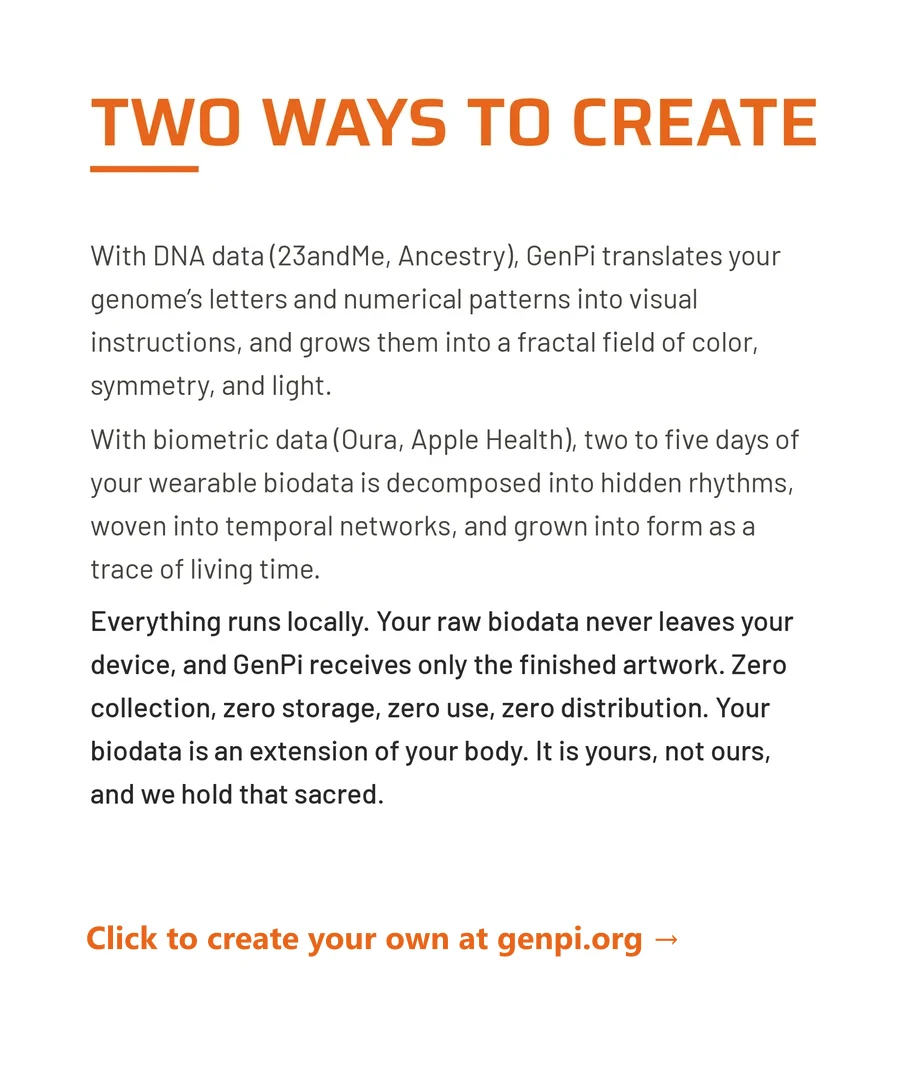
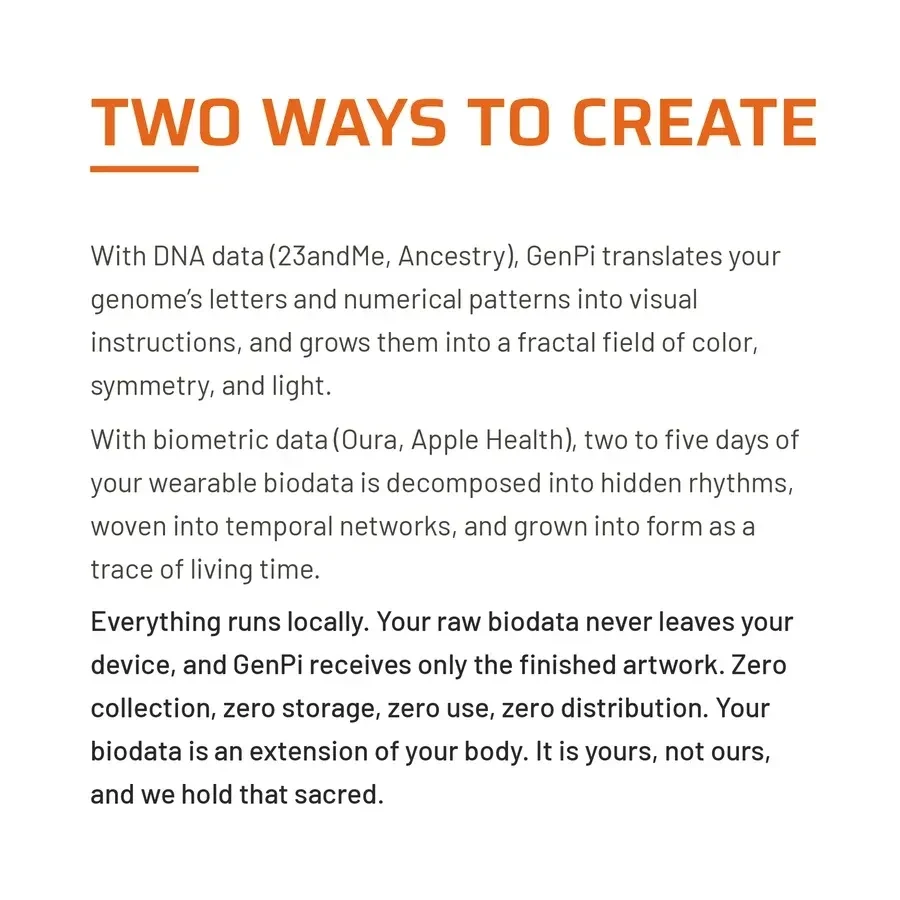
OURS Ledgerworks: copy rewrite full-width, thin CTAs, wall stroke + polish
- Why-on-chain copy replaced with Olli's edit (four paragraphs), moved
  between the wall and the photo gallery, full section width
- All buy affordances drop btn-solid for the thin mono caps orange
  style (BuyModal trigger + proceed, Gazelli CTA, ETH notify submit,
  thank-you close) - exported as THIN_CTA from BuyModal
- Ledgerworks wall gets the thin orange inset stroke and the site's
  rounded-3xl corners
- Nahuel's genpi placard asset cropped to remove its baked-in bold
  "Click to create your own" line - the thin appended CTA replaces it
  (placard cache-buster bumped to v9)
- Forest of Expired Links no longer claims to include the exhibition
  print (wall modal note + collect page note)

Changed region(s): [[0.0933, 0.0622, 0.9022, 0.7467], [0.0933, 0.7778, 0.8711, 0.9022]]

diff --git a/components/ours/LedgerworksSection.tsx b/components/ours/LedgerworksSection.tsx
@@ -16,7 +16,7 @@ import { EthPieceCheckout } from '@/components/storefront/EthPieceCheckout';
 const IMG_W = 2400;
 const IMG_H = 1528;
 const SCREEN = { x: 1069, y: 394, w: 246, h: 438 };
-const V = '?v=8';
+const V = '?v=9';
 const ZOOM = 2.34;                 // 10% less than before
 const LOUPE_W = '35%';             // 30% larger than before
 // every raised placard shares the manifesto's width (which puts the
@@ -74,7 +74,7 @@ const COLLECT_SPOTS: CollectSpot[] = [
       kind: 'external',
       href: 'https://bit.ly/forest-of-expired-links',
       cta: 'Purchase through Gazelli Art House',
-      note: 'ERC-721 video, on-chain. Includes the photographic print from the exhibition. Gallery-represented — the sale completes on Gazelli Art House’s own listing.',
+      note: 'ERC-721 video, on-chain. Gallery-represented — the sale completes on Gazelli Art House’s own listing.',
     },
   },
   {
@@ -219,7 +219,7 @@ export function LedgerworksSection() {
 
   return (
     <div className="mt-8">
-      <div className="relative mx-auto w-full max-w-[1400px] overflow-hidden rounded-[2.5rem]">
+      <div className="relative mx-auto w-full max-w-[1400px] overflow-hidden rounded-3xl">
         <picture>
           <source srcSet={`/images/ours/ledgerworks-wall.webp${V}`} type="image/webp" />
           {/* eslint-disable-next-line @next/next/no-img-element */}
@@ -229,6 +229,14 @@ export function LedgerworksSection() {
             className="block h-auto w-full"
           />
         </picture>
+
+        {/* thin OURS-orange stroke around the wall, matching the header
+            panel's treatment — painted above the image, under the HUDs */}
+        <span
+          aria-hidden
+          className="pointer-events-none absolute inset-0 rounded-3xl"
+          style={{ boxShadow: `inset 0 0 0 1px ${OURS.orange}` }}
+        />
 
         <video
           src="/images/ours/pope.mp4"
@@ -503,6 +511,46 @@ export function LedgerworksSection() {
         })}
       </div>
 
+      {/* why FFA hangs on-chain work at all — the standing argument,
+          full width between the wall and the photo gallery */}
+      <div className="mt-12">
+        <p className="font-mono text-[11px] uppercase tracking-[0.14em]" style={{ color: OURS.orange }}>
+          Why on-chain
+        </p>
+        <hr className="mt-1.5 h-[2px] w-12 border-0" style={{ background: OURS.orange }} />
+        <div className="mt-5 w-full space-y-5 text-body-lg leading-relaxed text-ink/85">
+          <p>
+            The Foundation features on-chain work in all of its exhibitions as a rule,
+            not a novelty. We believe that the utility offered by web3 may be the best
+            provenance technology the art world has ever had. It creates a public,
+            permanent, tamper-proof record of a work and every hand it has passed
+            through. This produces not only proof of ownership for now, but preserves
+            the legacy of a piece forever.
+          </p>
+          <p>
+            The benefit to the artist is also indisputable. Resale royalties can be
+            written into the work itself, so when a piece appreciates and changes
+            hands, its artist shares in the upside automatically. This is a right
+            physical artists have fought for for a century. Authentication no longer
+            hinges on an expert&rsquo;s letter or a gallery&rsquo;s memory. Editions
+            are honest. The ledger enforces scarcity in a way much more verifiable
+            than a signature. And an artist&rsquo;s market stays legible to them:
+            they know where their work travels and what it trades for.
+          </p>
+          <p>
+            The blockchain widens what art can be and who can hold it. A collector
+            anywhere on earth can support an artist directly, with no gatekeeper
+            between them. The relationship outlives any platform, because the
+            on-chain record does.
+          </p>
+          <p>
+            Ledgerworks shares the same space as the oil paint and the ceramics as a
+            display of works just as impressive, but also as an educational tool and
+            a bridge to the future that more and more of the art world is exploring.
+          </p>
+        </div>
+      </div>
+
       {/* ------- the wall in the room: photos & film ------- */}
       <div className="mt-10">
         <p className="font-mono text-[11px] uppercase tracking-[0.14em]" style={{ color: OURS.orange }}>
@@ -547,43 +595,6 @@ export function LedgerworksSection() {
                 />
               ))}
             </div>
-          </div>
-        </div>
-
-        {/* why FFA hangs on-chain work at all — the standing argument */}
-        <div className="mt-12">
-          <p className="font-mono text-[11px] uppercase tracking-[0.14em]" style={{ color: OURS.orange }}>
-            Why on-chain
-          </p>
-          <hr className="mt-1.5 h-[2px] w-12 border-0" style={{ background: OURS.orange }} />
-          <div className="mt-5 max-w-[68ch] space-y-5 text-body-lg leading-relaxed text-ink/85">
-            <p>
-              The Foundation features on-chain work in its exhibitions as a rule, not
-              a novelty. Strip away the speculation headlines and what remains is the
-              best provenance technology the art world has ever had: a public,
-              permanent, tamper-proof record of a work and every hand it has passed
-              through. Ownership becomes something you can verify, not something you
-              have to trust.
-            </p>
-            <p>
-              That record works for artists in ways paper never did. Resale royalties
-              can be written into the work itself, so when a piece appreciates and
-              changes hands, its artist shares in the upside automatically &mdash; a
-              right physical artists have fought for for a century. Authentication no
-              longer hinges on an expert&rsquo;s letter or a gallery&rsquo;s memory.
-              Editions are honest, because the ledger enforces scarcity better than a
-              signature. And an artist&rsquo;s market stays legible to them: they know
-              where their work lives, and what it trades for.
-            </p>
-            <p>
-              It also widens what art can be and who can hold it. Works can carry
-              code, evolve, or generate; a collector anywhere on earth can support an
-              artist directly, with no gatekeeper between them; and the relationship
-              outlives any platform, because the record does. That&rsquo;s why
-              Ledgerworks hung on the same wall as the oil paint and the ceramics
-              &mdash; not a category apart, but part of the same argument about who
-              gets to shape what comes next.
-            </p>
           </div>
         </div>
       </div>
@@ -702,12 +713,13 @@ function LWCollectModal({ spot, onClose }: { spot: CollectSpot; onClose: () => v
             {ext && (
               <>
                 <p className="mt-4 text-sm leading-relaxed text-muted">{ext.note}</p>
-                <div className="mt-7 flex flex-wrap items-center gap-3">
+                <div className="mt-7 flex flex-wrap items-baseline gap-3">
                   <a
                     href={ext.href}
                     target="_blank"
                     rel="noopener noreferrer"
-                    className="btn-solid"
+                    className="font-mono text-[11px] uppercase tracking-[0.16em] transition-opacity hover:opacity-70"
+                    style={{ color: OURS.orange }}
                     onClick={onClose}
                   >
                     {ext.cta} →

diff --git a/components/storefront/BuyModal.tsx b/components/storefront/BuyModal.tsx
@@ -22,11 +22,16 @@ import { trackEvent } from '@/lib/analytics';
 
 const ORANGE = '#E8651A';
 
+// The OURS buy-affordance type style: thin mono caps in the accent
+// orange — never a solid pill.
+export const THIN_CTA =
+  'font-mono text-[11px] uppercase tracking-[0.16em] transition-opacity hover:opacity-70';
+
 export function BuyModal({
   artwork,
-  triggerLabel = 'Buy',
-  triggerClassName = 'btn-solid',
-  triggerStyle,
+  triggerLabel = 'Buy →',
+  triggerClassName = THIN_CTA,
+  triggerStyle = { color: ORANGE },
   returnSection,
   open: controlledOpen,
   onOpenChange,
@@ -221,7 +226,7 @@ export function BuyModal({
                     {returnSection && (
                       <input type="hidden" name="returnSection" value={returnSection} />
                     )}
-                    <button type="submit" className="btn-solid">
+                    <button type="submit" className={THIN_CTA} style={{ color: ORANGE }}>
                       Proceed to checkout →
                     </button>
                   </form>

diff --git a/components/ours/LouverWall.tsx b/components/ours/LouverWall.tsx
@@ -232,8 +232,13 @@ function ThanksModal({ artwork, onClose }: { artwork: Artwork; onClose: () => vo
             ? ', and your copy will be in the mail shortly.'
             : ', and we’ll reach out about delivery.'}
         </p>
-        <button type="button" onClick={onClose} className="btn-solid mt-7">
-          Back to the page
+        <button
+          type="button"
+          onClick={onClose}
+          className="mt-7 font-mono text-[11px] uppercase tracking-[0.16em] transition-opacity hover:opacity-70"
+          style={{ color: OURS.orange }}
+        >
+          Back to the page →
         </button>
       </div>
     </div>

diff --git a/components/storefront/EthPieceCheckout.tsx b/components/storefront/EthPieceCheckout.tsx
@@ -195,9 +195,10 @@ export function EthPieceCheckout({
           <button
             type="submit"
             disabled={submitting}
-            className="btn-solid self-start disabled:cursor-not-allowed disabled:opacity-60"
+            className="self-start font-mono text-[11px] uppercase tracking-[0.16em] transition-opacity hover:opacity-70 disabled:cursor-not-allowed disabled:opacity-60"
+            style={{ color: '#E8651A' }}
           >
-            {submitting ? 'Sending…' : "I've sent it — notify FFA"}
+            {submitting ? 'Sending…' : "I've sent it — notify FFA →"}
           </button>
         </form>
       )}

diff --git a/app/ours/collect/page.tsx b/app/ours/collect/page.tsx
@@ -60,7 +60,7 @@ const LEDGERWORKS_WORKS: Array<{
     id: 'recycle-group-forest-of-expired-links',
     artist: 'Recycle Group',
     title: 'Forest of Expired Links',
-    note: 'ERC-721 video, on-chain. Includes the photographic print from the exhibition.',
+    note: 'ERC-721 video, on-chain.',
     href: 'https://bit.ly/forest-of-expired-links',
     cta: 'Purchase through Gazelli Art House',
     videoEmbed: 'https://player.vimeo.com/video/1192225993?autoplay=1&muted=1&loop=1',
